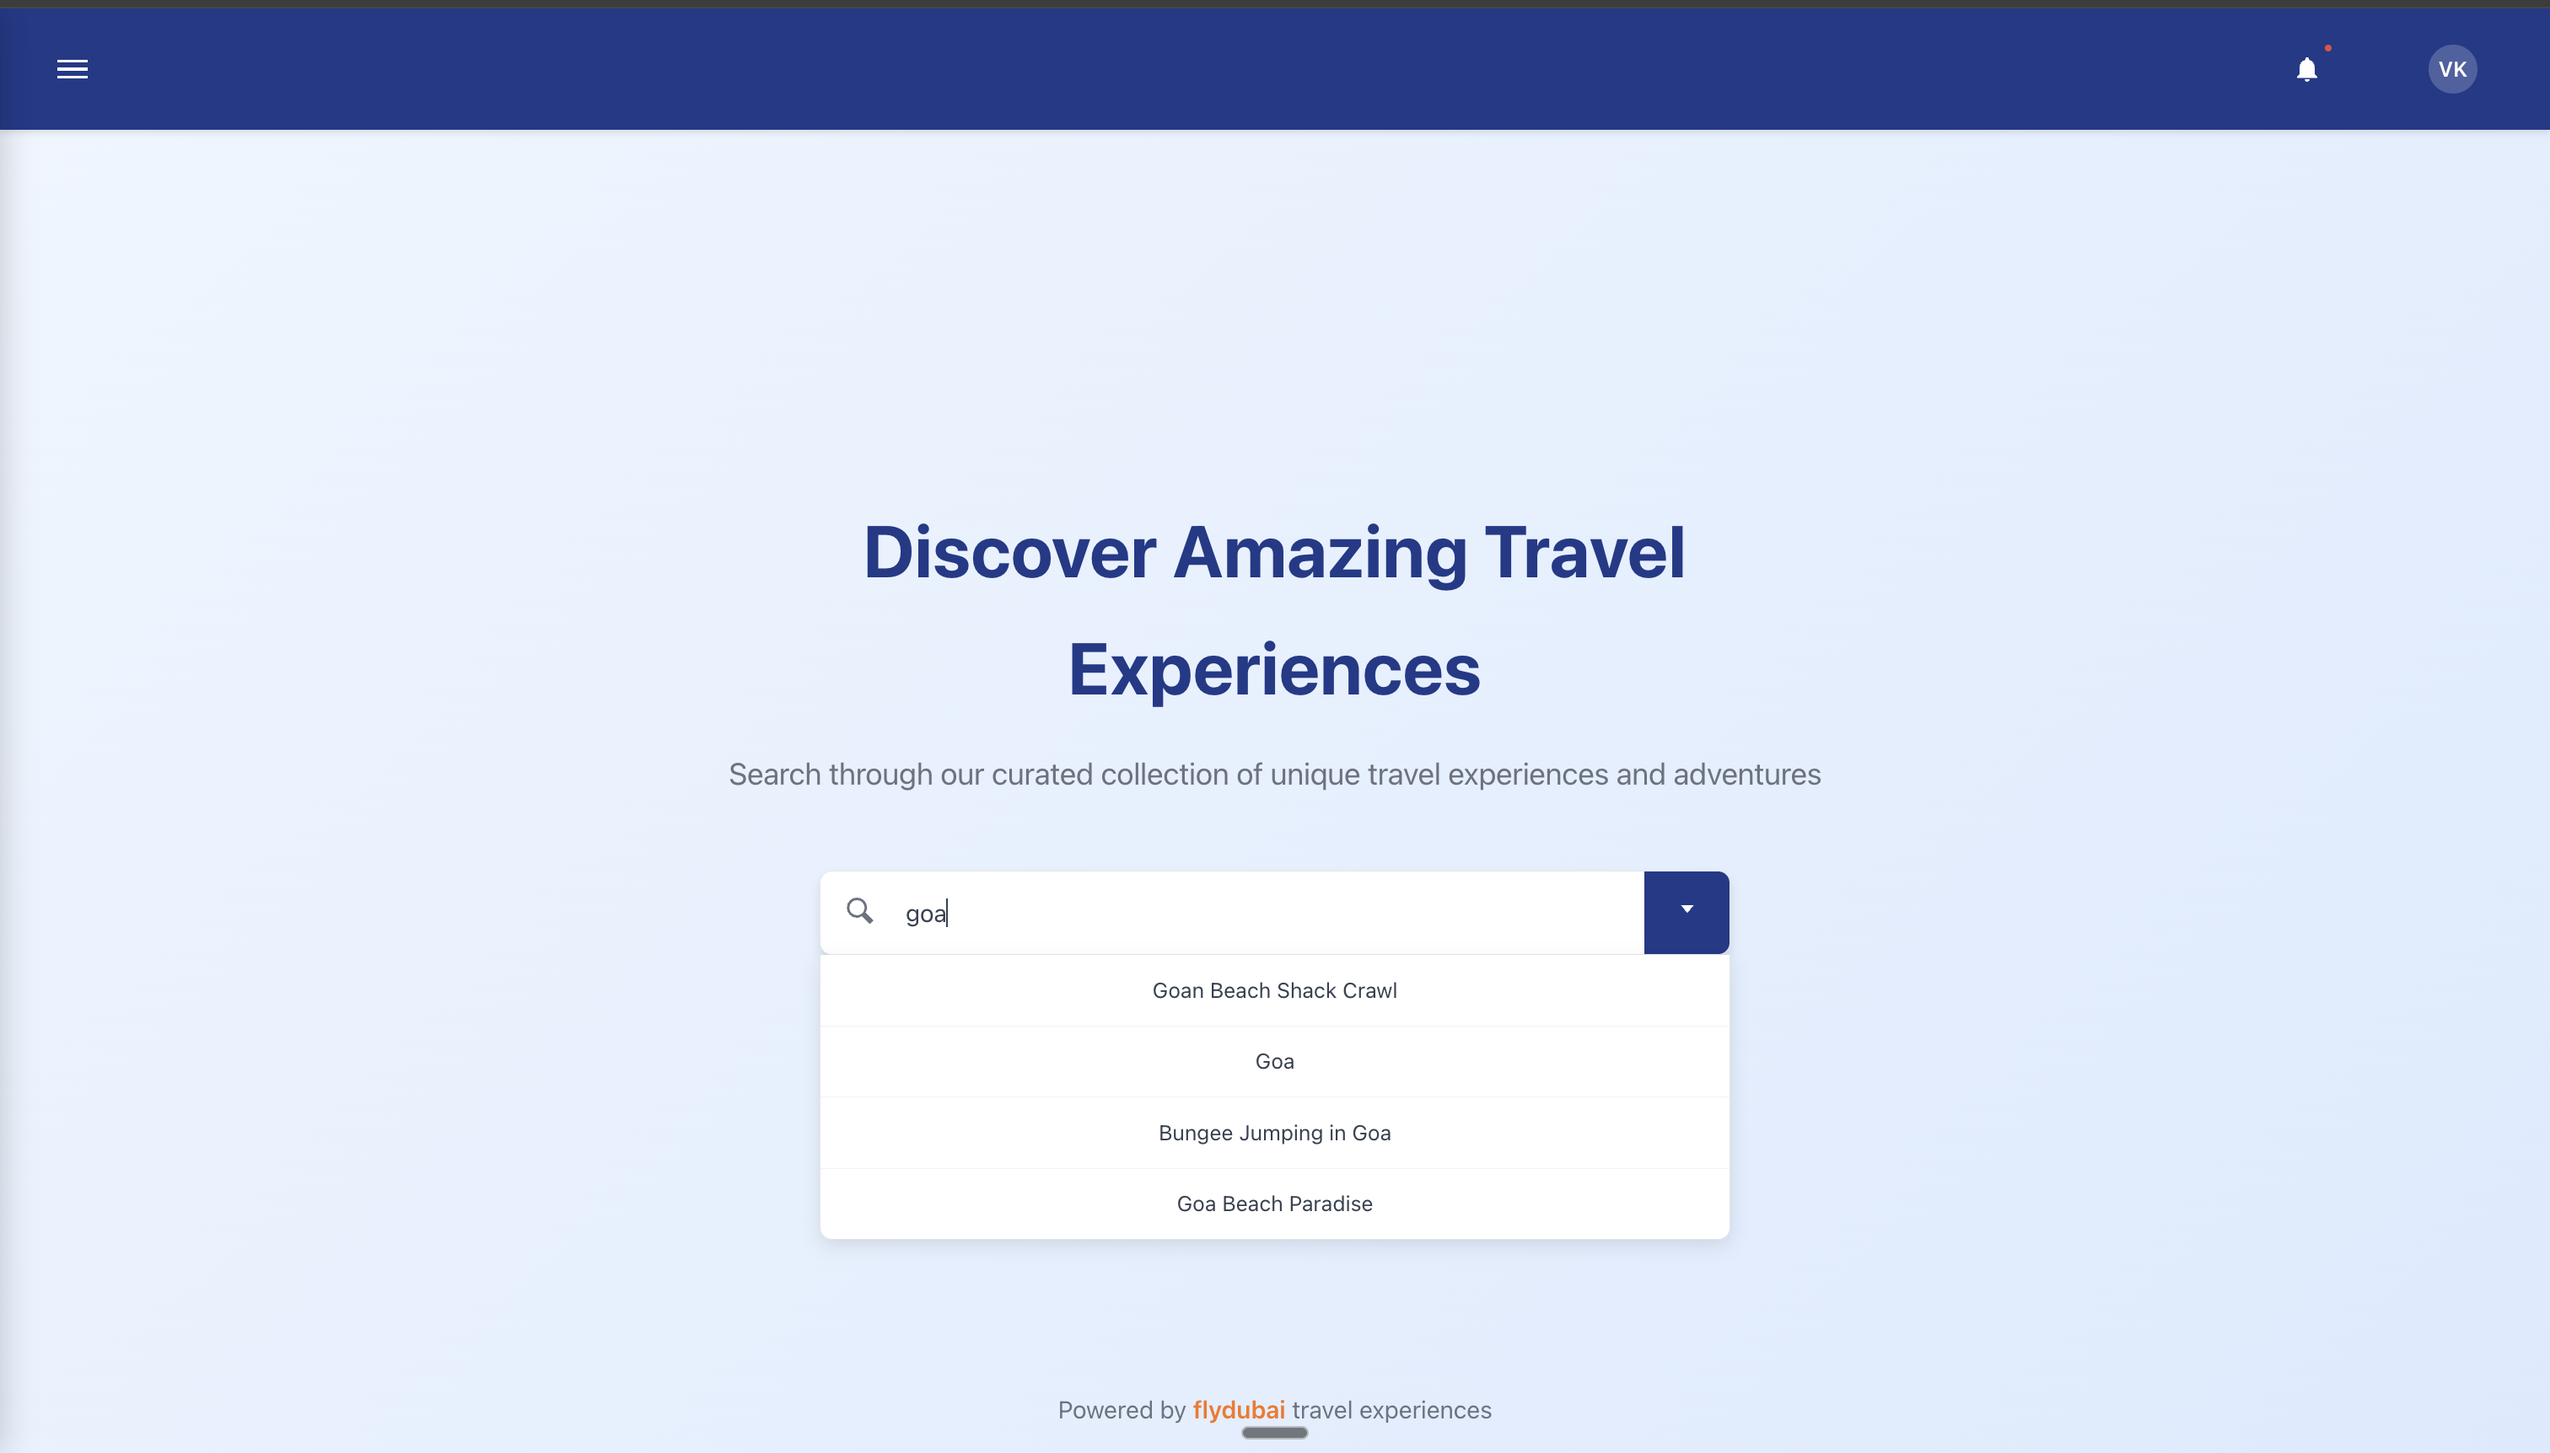
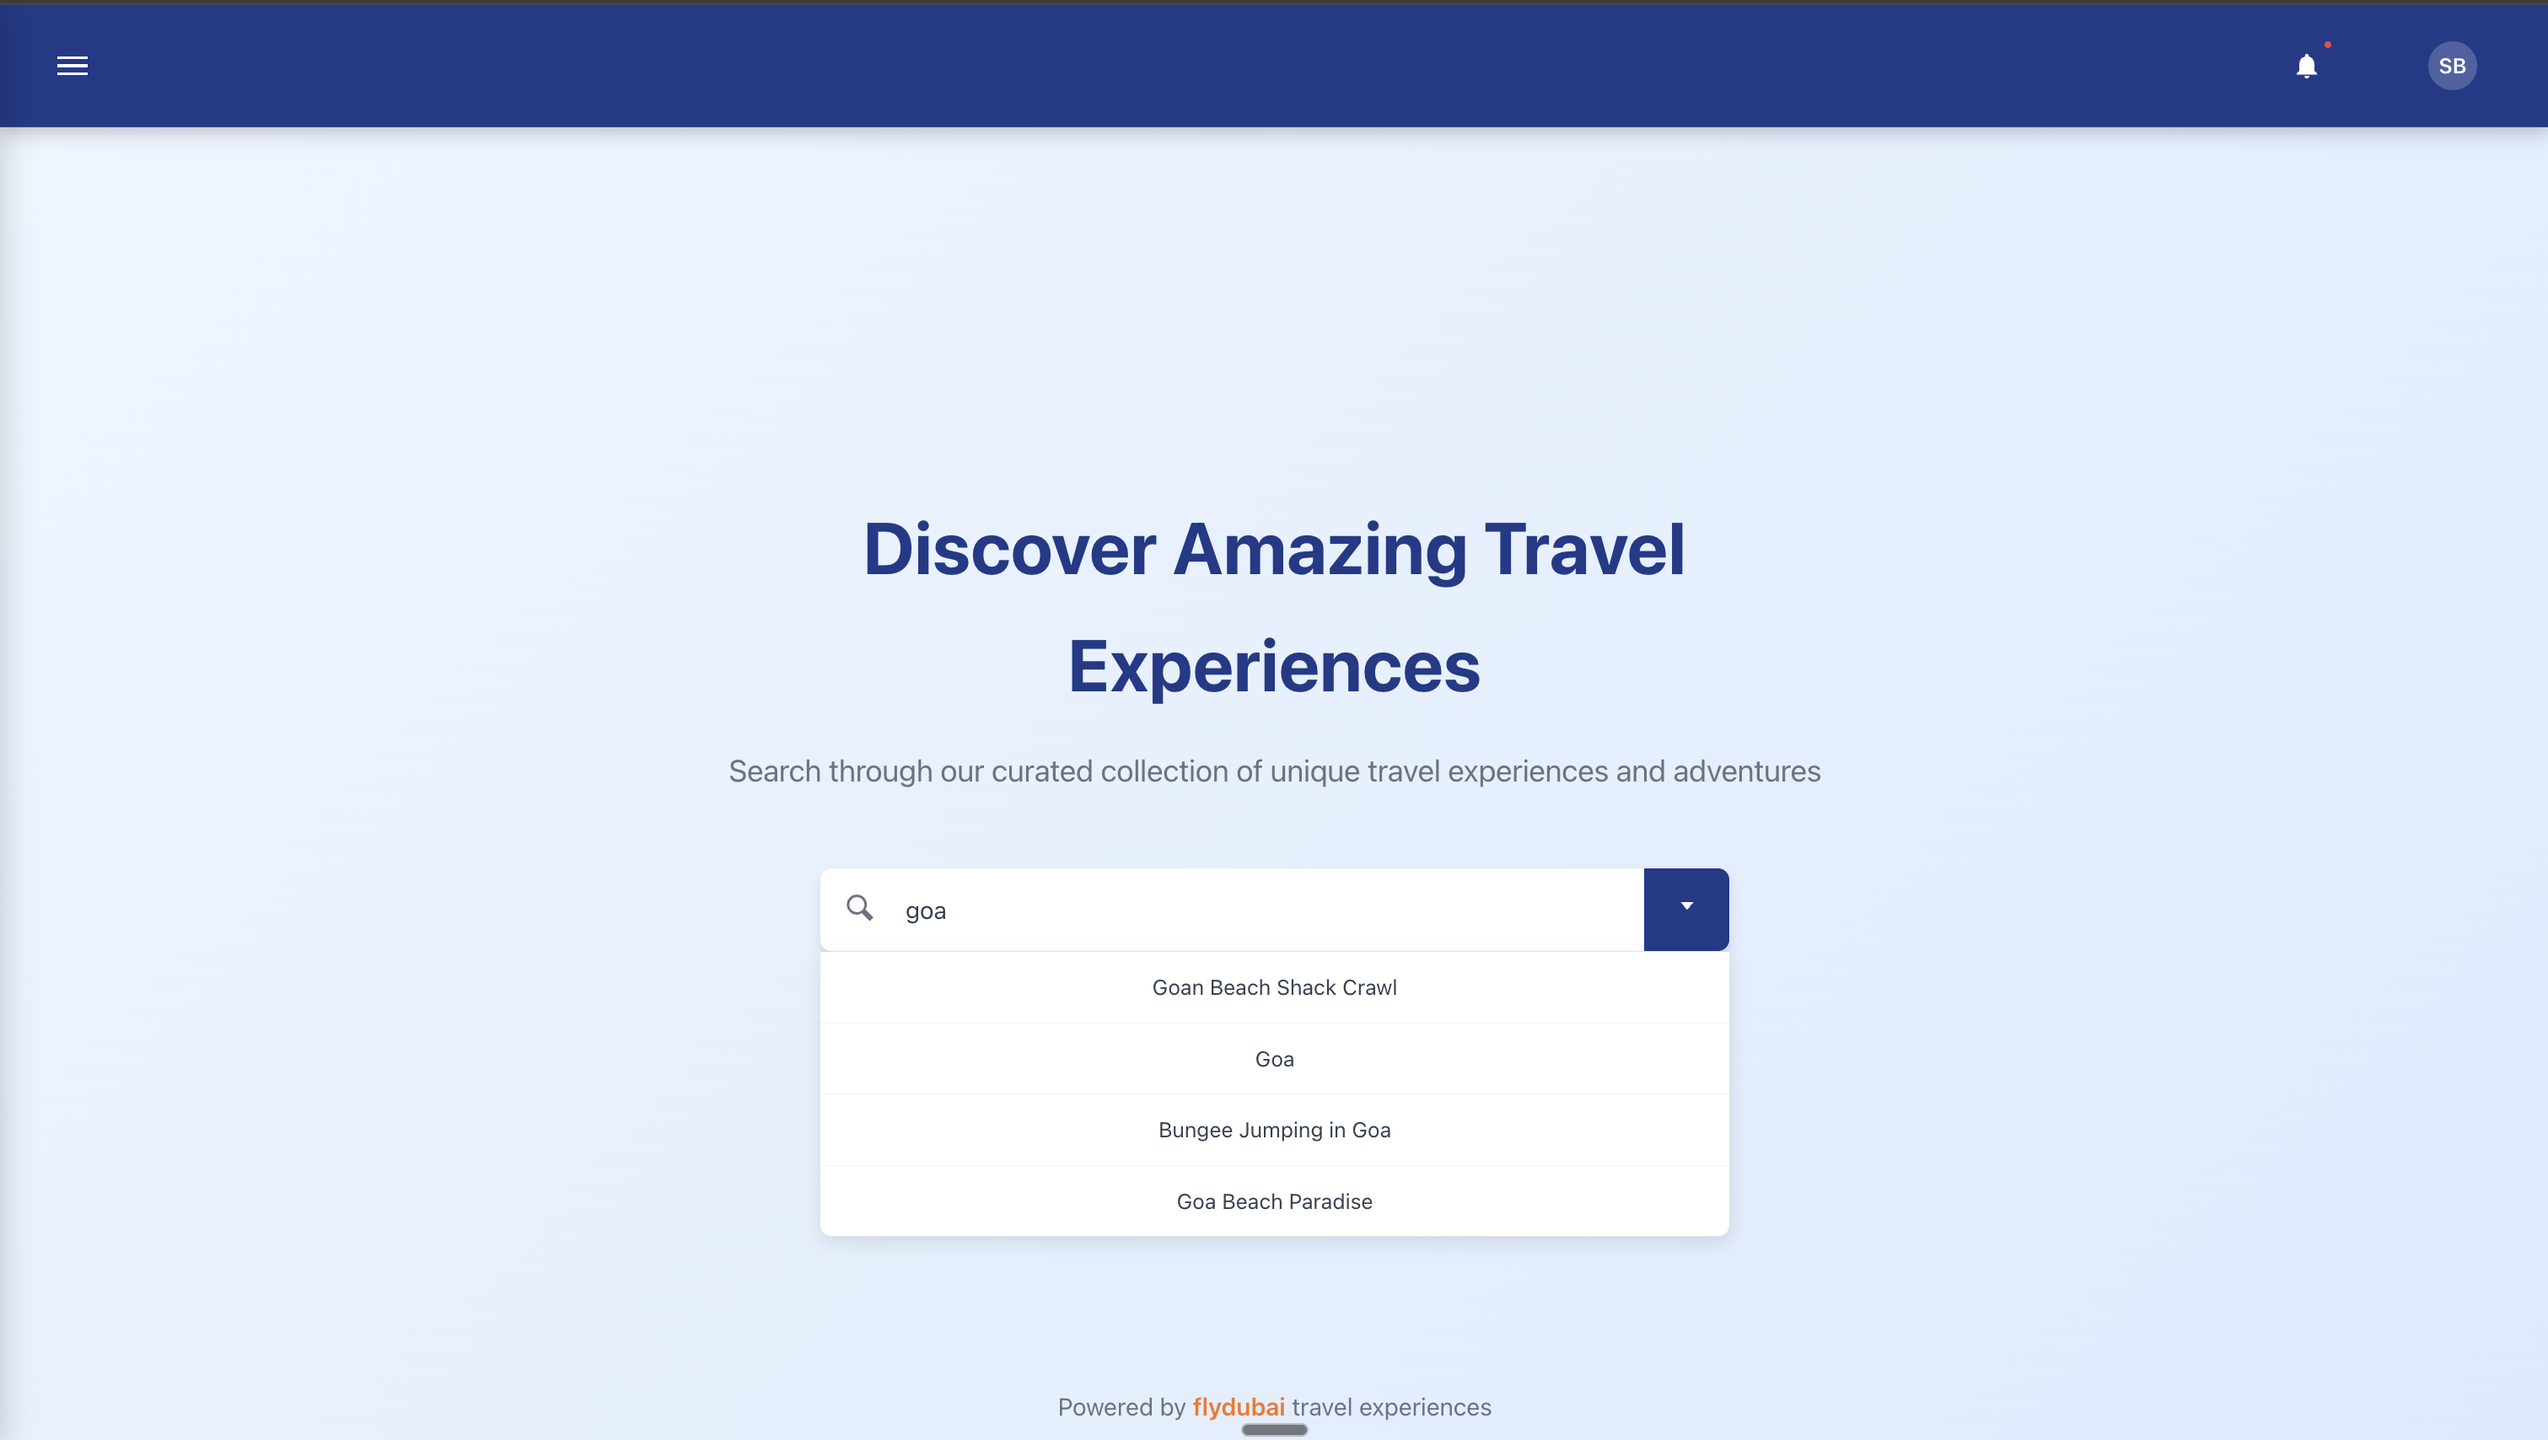
SS changed

diff --git a/frontend/src/components/layout/Header/Header.tsx b/frontend/src/components/layout/Header/Header.tsx
@@ -59,7 +59,7 @@ const Header: React.FC<HeaderProps> = ({ onCategorySelect }) => {
           </div>
           
           <div className={styles.navItem}>
-            <div className={styles.userButton}>VK</div>
+            <div className={styles.userButton}>SB</div>
           </div>
         </nav>
       </header>
